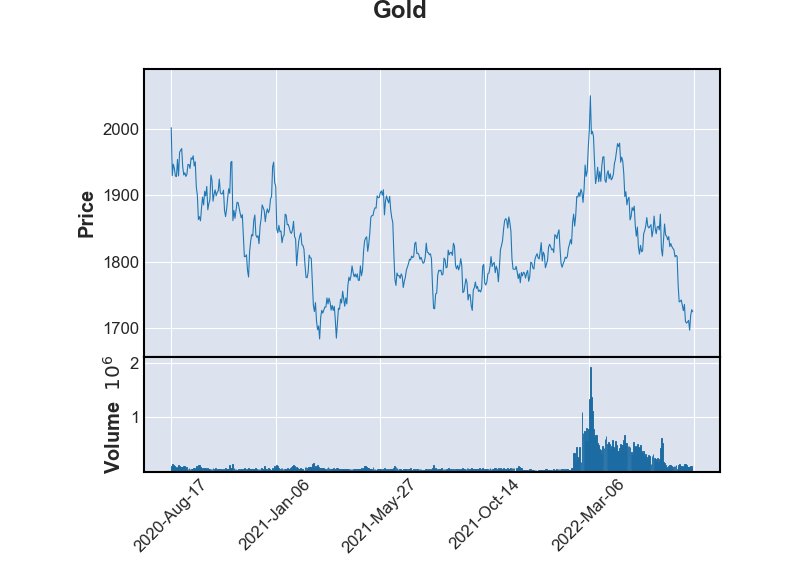
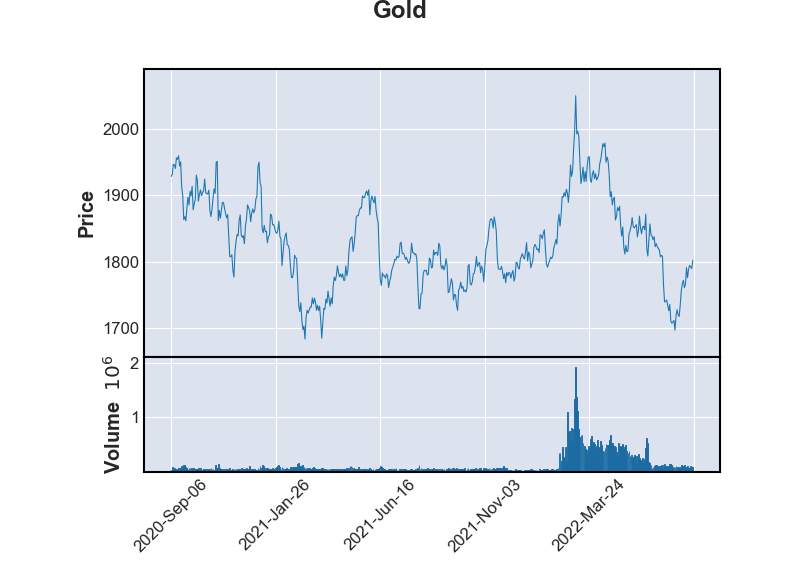
update

diff --git a/flask_app.py b/flask_app.py
@@ -1,8 +1,10 @@
 import json
 import logging
 
+import argparse
+
 from time import sleep
-from os import path
+from os import path, remove
 from oap import app
 from oap.modules.oanda import OandaApi
 
@@ -21,6 +23,7 @@ def setup_default_logging():
         root_logger.setLevel(logging.NOTSET)
         root_logger.addHandler(console_logger)
         logging.debug("Default logging configured.")
+        # logging.getLogger("mplfinance").setLevel(logging.WARNING)
     except Exception as e:
         logging.error(e)
 
@@ -97,9 +100,11 @@ def dump_chart_for_instrument(instrument, instrument_display_name, ma_period=20,
     df['ewm'] = df['Close'].ewm(span=ema_period, adjust=False).mean()
     index_df = df.set_index('time')
 
-    mpf.plot(index_df,type='line', volume=True, title=instrument_display_name, savefig=f'./pic-dump/{instrument}-close-plot.png')
-
-    print(f"df shape: {df.shape}")
+    save_file_path = f'./pic-dump/{instrument}-close-plot.png'
+    if path.exists(save_file_path):
+        remove(save_file_path) 
+    mpf.plot(index_df,type='line', volume=True, title=instrument_display_name, savefig=save_file_path)
+    # print(f"df shape: {df.shape}")
 
 
 def post_chart(instrument):
@@ -164,25 +169,99 @@ def post_chart(instrument):
 
 ################################################################################
 
-setup_default_logging()
+
+def dump_oanda_charts(post=False):
+    setup_default_logging()
+
+    # oandaApi.get_account_summary()
+    x = oandaApi.get_account_instruments(get_local=True)
+    instruments = x['instruments']
+
+    # fetch_candles_data(instruments)
+    # dump_instrument_class(instruments)
+
+    for instrument in instruments:
+        dump_chart_for_instrument(instrument['name'], instrument['displayName'])
+
+    if post:
+        for instrument in instruments:
+            post_chart(instrument['name'])
+
+
+def get_argument_parser():
+    # Setup ArgumentParser
+    parser = argparse.ArgumentParser()
+    # parser.add_argument("command", help="echo the string you use here")
+    parser.add_argument("-c", "--command", choices=['dump-oanda', 'test'], help="Some operation command")
+    parser.add_argument("-a", "--arguments", help="Some arguments to complement command")
+    # parser.add_argument("-v", "--verbosity", type=int, help="increase output verbosity")
+    # parser.add_argument("-v", "--verbosity", type=int, choices=[0, 1, 2], help="increase output verbosity")
+    # parser.add_argument("-v", "--verbosity", action="count", default=0, help="increase output verbosity")
+    # parser.add_argument("echo", help="echo the string you use here")
+    # parser.add_argument("square", help="display a square of a given number", type=int)
+    return parser
+
+
+parser = get_argument_parser()
+args = parser.parse_args()
+
+# print(args.command)
+# print(args.sub_command)
+# print(args.echo)
+# print(args.square**2)
+
+print(f'Command: [{args.command}]')
+
+def test():
+    print('test() called.')
+
+# import sys
+# print('Number of arguments:', len(sys.argv), 'arguments.')
+# print('Argument List:', str(sys.argv))
+
+########################################
+
 app_path = path.dirname(path.abspath(__file__))
 app_secrets = get_secrets(app_path)
 
 oandaApi = OandaApi(app_secrets, app_path)
-# oandaApi.get_account_summary()
-x = oandaApi.get_account_instruments(get_local=True)
-instruments = x['instruments']
-# fetch_candles_data(instruments)
-# dump_instrument_class(instruments)
 
-# dump_chart_for_instrument('XAU_USD')
-# post_chart()
+commands = {
+    'dump-oanda' : dump_oanda_charts,
+    'test': test
+}
+
+commands[args.command]()
+
+
+
+
+
+
+
+
+
+
+
+
+
+
+# setup_default_logging()
+# app_path = path.dirname(path.abspath(__file__))
+# app_secrets = get_secrets(app_path)
+
+# oandaApi = OandaApi(app_secrets, app_path)
+# # oandaApi.get_account_summary()
+# x = oandaApi.get_account_instruments(get_local=True)
+# instruments = x['instruments']
+# fetch_candles_data(instruments)
+# # dump_instrument_class(instruments)
 
 # for instrument in instruments:
 #     dump_chart_for_instrument(instrument['name'], instrument['displayName'])
 
-for instrument in instruments:
-    post_chart(instrument['name'])
+# for instrument in instruments:
+#     post_chart(instrument['name'])
 
 # KIV
 # candle_spec = 'EUR_USD:D:M'

diff --git a/oap/modules/oanda.py b/oap/modules/oanda.py
@@ -83,7 +83,7 @@ class OandaApi(object):
                 f"{self.api_url}/v3/accounts/{account_id}/instruments/{instrument_name}/candles?granularity={granularity}", 
                 headers=self.headers)
         response_json = response.json()
-        logging.debug(response_json)
+        # logging.debug(response_json)
         
         # normalized_candle_spec = candle_spec.replace(':','-')
         self.dump_to_file(f'account-candles-{instrument_name}-{granularity}.json', response_json)
